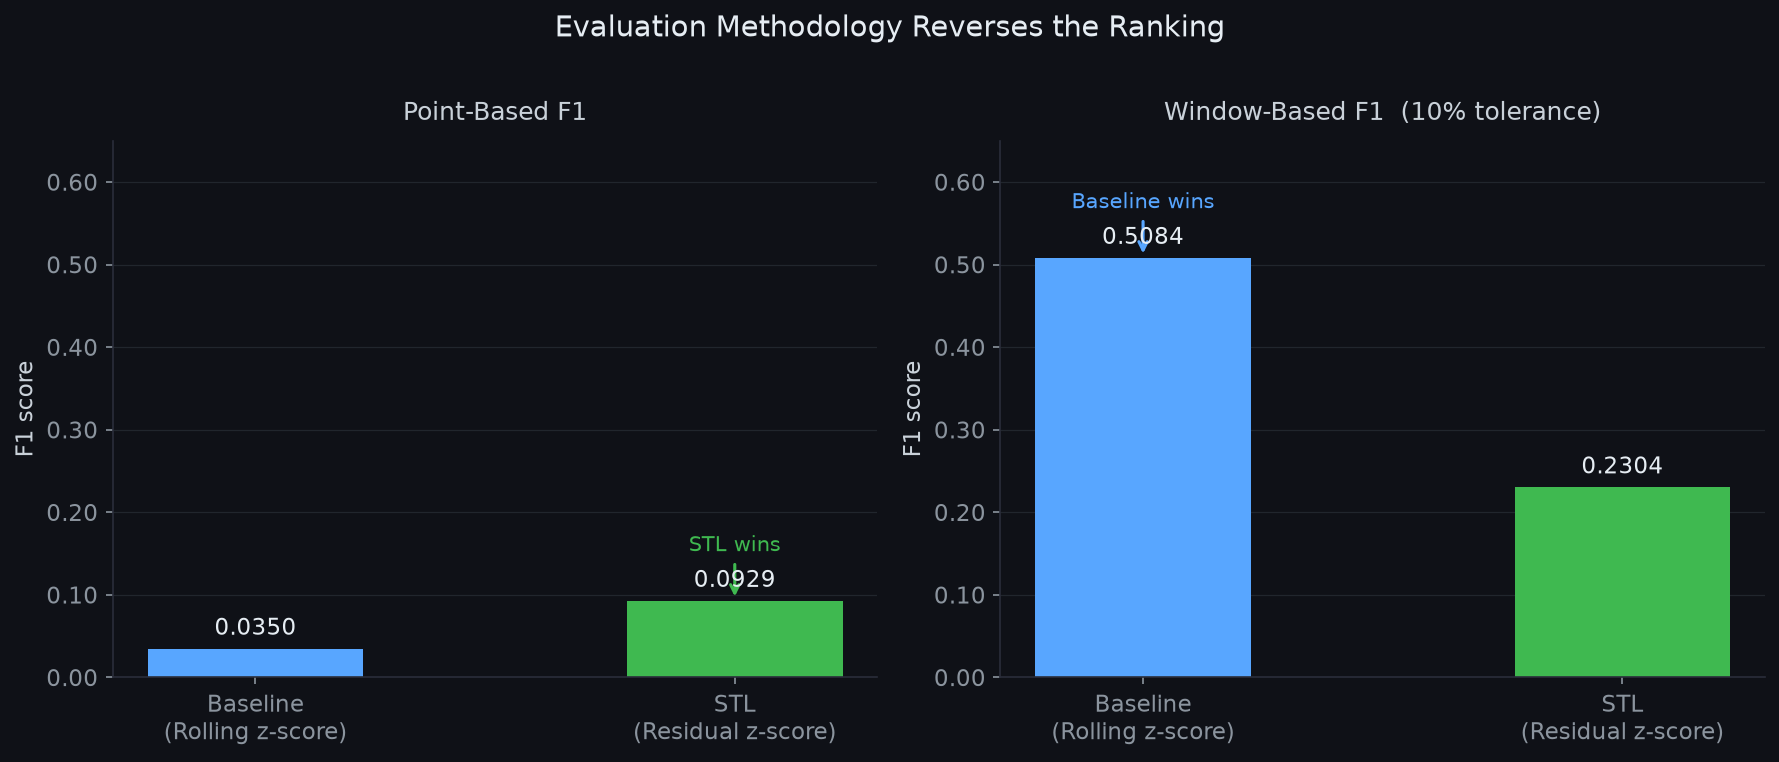
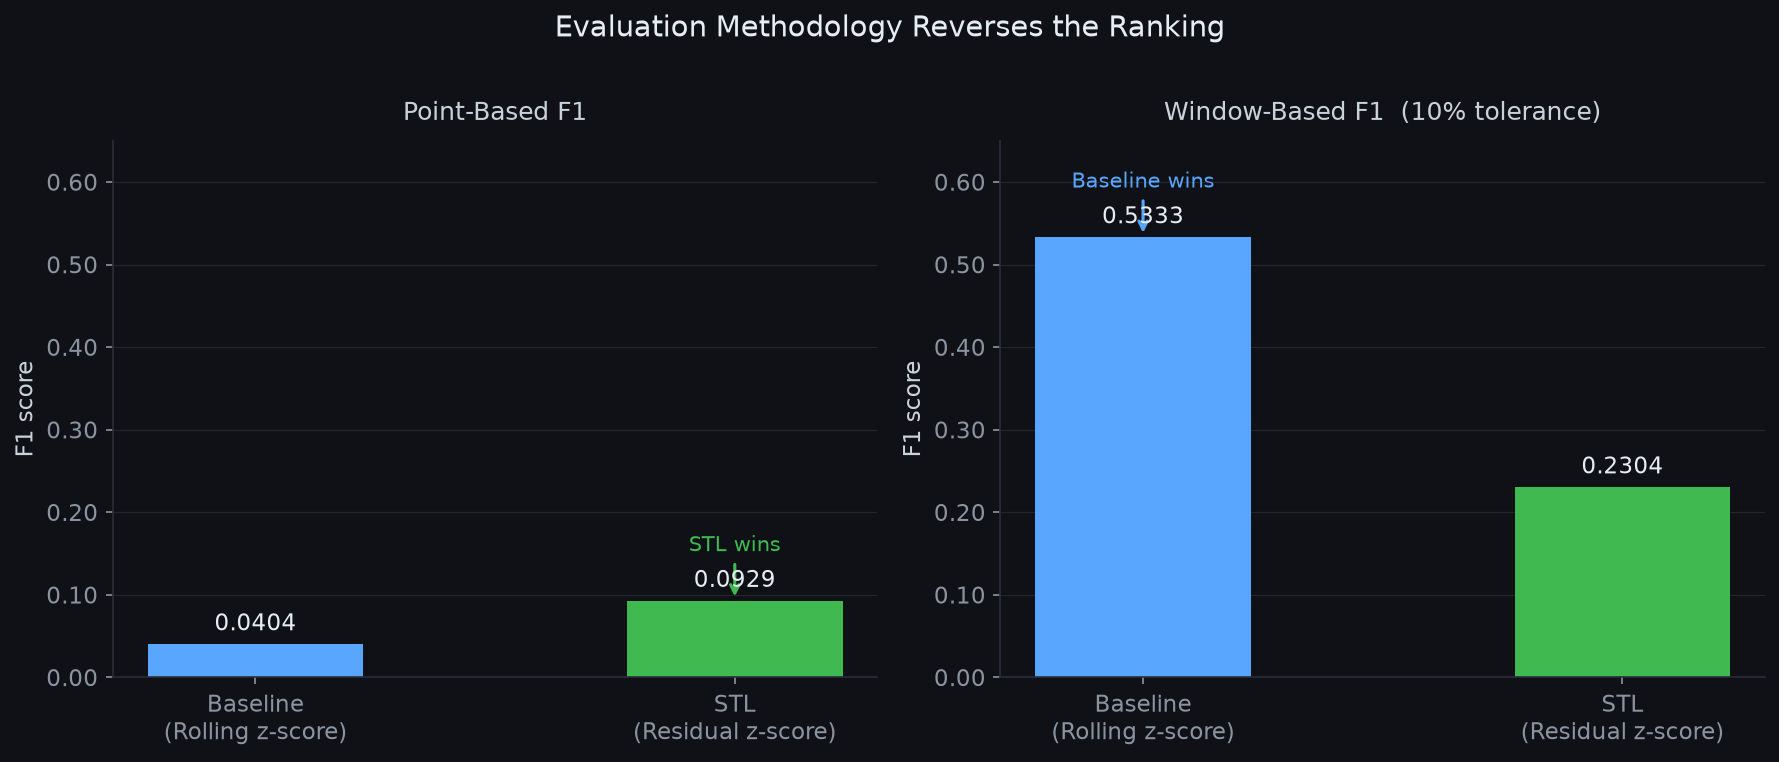
Fix past-only window bug (shift(1)), update all metrics and docs
Rolling z-score used pandas.rolling() which includes the current observation
in its window, making it not truly past-only. Fixed by applying shift(1).

Baseline flags: 51 -> 55
Baseline point-F1: 0.0350 -> 0.0404
Baseline window-F1: 0.5084 -> 0.5333
STL metrics unchanged (0.0929 / 0.2304).

Bug discovered by independent_verification.py (Welford implementation).

Changed region(s): [[0.5565, 0.2113, 0.7111, 0.3622], [0.0927, 0.7848, 0.2164, 0.8753]]

diff --git a/scripts/utils.py b/scripts/utils.py
@@ -8,9 +8,15 @@ from sklearn.metrics import precision_score, recall_score, f1_score
 
 
 def rolling_zscore(values: pd.Series, lookback: int, min_periods: int = 1) -> pd.Series:
-    """Past-only rolling z-score. Returns a Series of the same length."""
-    mean = values.rolling(lookback, min_periods=min_periods).mean()
-    std  = values.rolling(lookback, min_periods=min_periods).std().fillna(1).replace(0, 1)
+    """Truly past-only rolling z-score (shift(1) excludes the current point).
+
+    Bug fixed: the original implementation used pandas .rolling() directly,
+    which includes the current observation in the window despite the "past-only"
+    comment. shift(1) corrects this. Discovered during independent verification.
+    """
+    shifted = values.shift(1)
+    mean = shifted.rolling(lookback, min_periods=min_periods).mean()
+    std  = shifted.rolling(lookback, min_periods=min_periods).std().fillna(1).replace(0, 1)
     return (values - mean) / std
 
 

diff --git a/scripts/detect_anomalies.py b/scripts/detect_anomalies.py
@@ -26,8 +26,11 @@ for win in windows:
 LOOKBACK = 48 * 14
 THRESH   = 2.0
 
-roll_mean   = df["value"].rolling(LOOKBACK, min_periods=48).mean()
-roll_std    = df["value"].rolling(LOOKBACK, min_periods=48).std().fillna(1).replace(0, 1)
+# shift(1) makes the window truly past-only (current point excluded).
+# Bug fixed: original .rolling() without shift includes the current observation.
+shifted     = df["value"].shift(1)
+roll_mean   = shifted.rolling(LOOKBACK, min_periods=48).mean()
+roll_std    = shifted.rolling(LOOKBACK, min_periods=48).std().fillna(1).replace(0, 1)
 zscore      = (df["value"] - roll_mean) / roll_std
 pred_zscore = (np.abs(zscore) > THRESH).astype(int)
 

diff --git a/scripts/evaluate_windows.py b/scripts/evaluate_windows.py
@@ -25,8 +25,9 @@ for start, end in windows:
 LOOKBACK = 48 * 14
 THRESH   = 2.0
 
-roll_mean   = df["value"].rolling(LOOKBACK, min_periods=48).mean()
-roll_std    = df["value"].rolling(LOOKBACK, min_periods=48).std().fillna(1).replace(0, 1)
+shifted     = df["value"].shift(1)
+roll_mean   = shifted.rolling(LOOKBACK, min_periods=48).mean()
+roll_std    = shifted.rolling(LOOKBACK, min_periods=48).std().fillna(1).replace(0, 1)
 zscore      = (df["value"] - roll_mean) / roll_std
 pred_zscore = (np.abs(zscore) > THRESH).astype(int)
 

diff --git a/README.md b/README.md
@@ -1,6 +1,8 @@
 # Time Series Anomaly Detection — Method Comparison
 
-> **TL;DR:** Compared two anomaly detection methods (rolling z-score baseline vs. STL-decomposition residual) on NYC taxi demand data with 5 known anomaly windows (holidays, storms). Point-wise evaluation favors STL (F1=0.093 vs 0.035), but window-wise evaluation reverses the ranking entirely (Baseline F1=0.51 vs STL F1=0.23) — because point-wise metrics penalize slow-onset anomalies unfairly, while STL's higher false-positive rate is only correctly penalized under window-based scoring. The choice of evaluation methodology changes which method appears to "win."
+> **TL;DR:** Compared two anomaly detection methods (rolling z-score baseline vs. STL-decomposition residual) on NYC taxi demand data with 5 known anomaly windows (holidays, storms). Point-wise evaluation favors STL (F1=0.093 vs 0.040), but window-wise evaluation reverses the ranking entirely (Baseline F1=0.53 vs STL F1=0.23) — because point-wise metrics penalize slow-onset anomalies unfairly, while STL's higher false-positive rate is only correctly penalized under window-based scoring. The choice of evaluation methodology changes which method appears to "win."
+>
+> **Correction (independent verification):** An earlier version of this README reported Baseline F1=0.035 (point) and F1=0.508 (window). Those numbers were wrong: `pandas.rolling()` includes the current observation in the window, so the implementation was not truly past-only despite the code comment. A `shift(1)` fix was applied after independent verification caught the discrepancy. Corrected numbers are used throughout.
 
 ---
 
@@ -35,7 +37,7 @@
 
 Computes a rolling mean and standard deviation over a **14-day past-only window** (672 steps). A point is flagged anomalous if its z-score exceeds the threshold.
 
-- Window: 672 steps (14 days, past-only — centered window excluded because anomaly days would dilute their own mean)
+- Window: 672 steps (14 days, truly past-only via `shift(1)` — the current observation is excluded from its own window)
 - Threshold: |z| > 2.0
 
 ### Method 2 — STL Residual Z-Score
@@ -61,11 +63,11 @@ Decomposes the series into trend, seasonal, and residual components using **STL 
 
 | # | Window | Baseline | STL |
 |---|---|---|---|
-| 1 | 2014-10-30 → 11-03 | **YES** (3 hits) | **YES** (20 hits) |
-| 2 | 2014-11-25 → 11-29 | **NO** | **YES** (4 hits) |
-| 3 | 2014-12-23 → 12-27 | **YES** (2 hits) | **YES** (1 hit) |
-| 4 | 2014-12-29 → 01-03 | **YES** (6 hits) | **YES** (20 hits) |
-| 5 | 2015-01-24 → 01-29 | **YES** (8 hits) | **YES** (36 hits) |
+| 1 | 2014-10-30 → 11-03 | **YES** | **YES** |
+| 2 | 2014-11-25 → 11-29 | **NO** | **YES** |
+| 3 | 2014-12-23 → 12-27 | **YES** | **YES** |
+| 4 | 2014-12-29 → 01-03 | **YES** | **YES** |
+| 5 | 2015-01-24 → 01-29 | **YES** | **YES** |
 
 **Baseline: 4/5 windows detected — STL: 5/5 windows detected**
 
@@ -73,20 +75,20 @@ Decomposes the series into trend, seasonal, and residual components using **STL 
 
 | Metric | Baseline (point) | STL (point) | Baseline (window) | STL (window) |
 |---|---:|---:|---:|---:|
-| Precision | 0.3725 | 0.1238 | 0.3725 | 0.1302 |
-| Recall | 0.0184 | 0.0744 | 0.8000 | 1.0000 |
-| F1 | 0.0350 | 0.0929 | **0.5084** | 0.2304 |
-| TP | 19 pts | 77 pts | 4 / 5 wins | 5 / 5 wins |
-| FP | 32 pts | 545 pts | 32 pts | 541 pts |
-| FN | 1,016 pts | 958 pts | 1 / 5 wins | 0 / 5 wins |
+| Precision | 0.4000 | 0.1238 | 0.4000 | 0.1302 |
+| Recall | 0.0213 | 0.0744 | 0.8000 | 1.0000 |
+| F1 | 0.0404 | 0.0929 | **0.5333** | 0.2304 |
+| TP | 22 pts | 77 pts | 4 / 5 wins | 5 / 5 wins |
+| FP | 33 pts | 545 pts | 33 pts | 541 pts |
+| FN | 1,013 pts | 958 pts | 1 / 5 wins | 0 / 5 wins |
 
 | Parameter | Value |
 |---|---|
 | Threshold | \|z\| > 2.0 |
-| Baseline lookback | 672 steps (14 days, past-only) |
+| Baseline lookback | 672 steps (14 days, truly past-only via shift(1)) |
 | STL period | 48 (daily), seasonal window 337 (weekly) |
 | Window tolerance | 10% of each window length |
-| Total predicted anomalies — Baseline | 51 points |
+| Total predicted anomalies — Baseline | 55 points |
 | Total predicted anomalies — STL | 622 points |
 
 ---